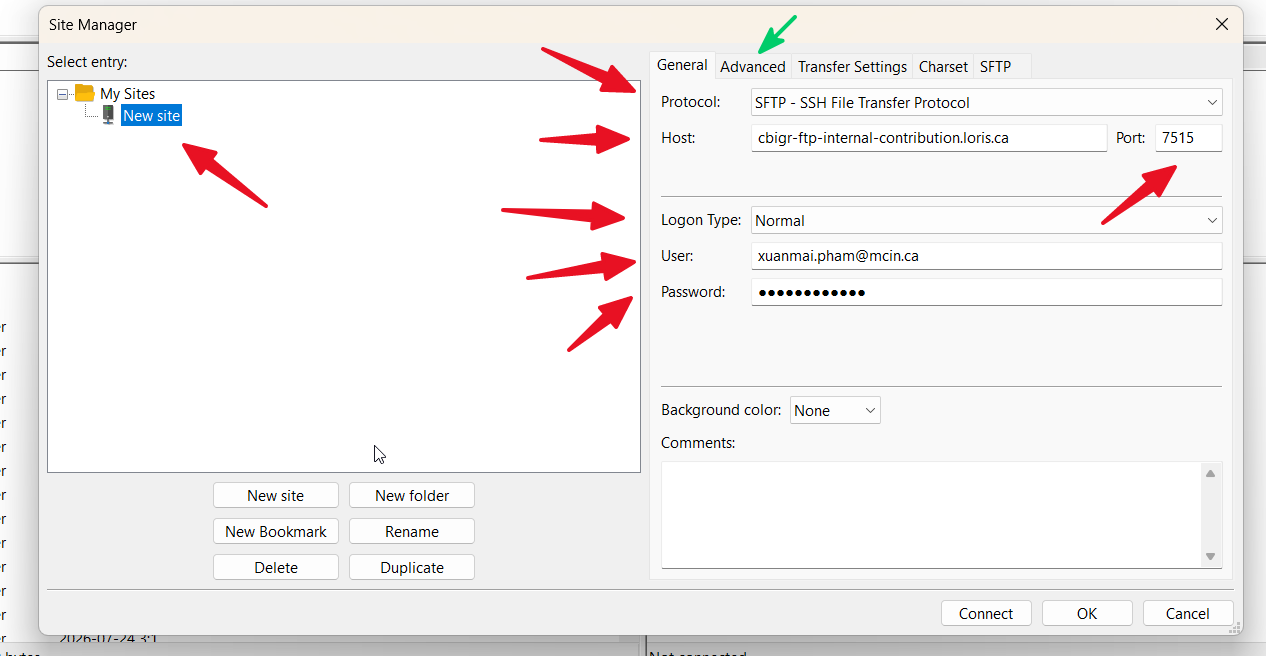
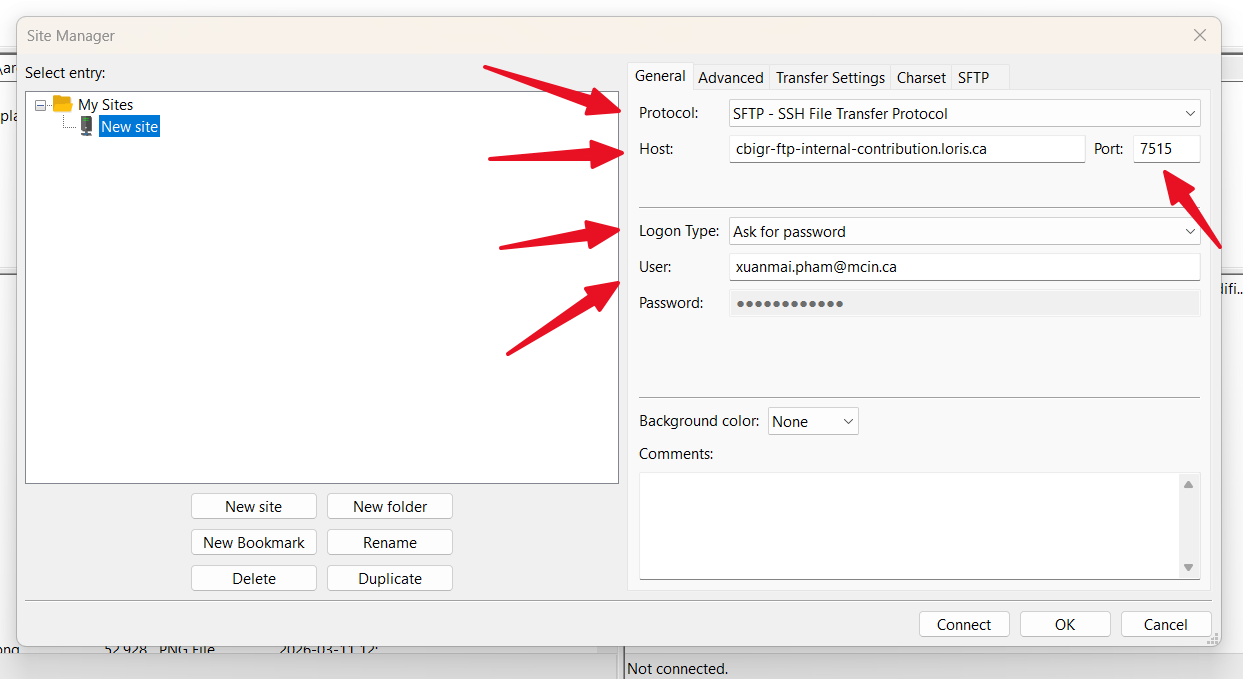
Update SFTP

diff --git a/docs/transferring-data.md b/docs/transferring-data.md
@@ -44,7 +44,9 @@ Small Datasets include individual files or modest data volumes `size TBD` that c
 
 ### BIDS Uploader
 
-`TBD`
+`TBD`  
+ℹ **Note:** Your dataset should be [BIDS-compliant](https://bids-specification.readthedocs.io/).  
+💡 For more information about the **Brain Imaging Data Structure (BIDS)** standard format, visit our [BIDS Overview](https://www.archimedesdata.ca/resources/data-standards/bids-overview/) resource.  
 
 ### Instrument Manager
 
@@ -100,8 +102,10 @@ The Electrophysiology Browser module allows you to review, filter, annotate and 
 `
 
 `To upload recordings, click on the Upload tab. Select your file for upload and enter the required information about the recording.
-`
-Your dataset should be [BIDS-compliant](https://bids-specification.readthedocs.io/).
+`  
+
+ℹ **Note:** Your dataset should be [BIDS-compliant](https://bids-specification.readthedocs.io/).  
+
 
 ## Large Datasets 🔵
 
@@ -177,21 +181,14 @@ The following steps describe how to connect to the SFTP server and upload your d
 - **Protocol:** `SFTP - SSH File Transfer Protocol`
 - **Host:** `cbigr-ftp-internal-contribution.loris.ca`
 - **Port:** `7515`
-- **Logon Type:** `Normal`
+- **Logon Type:** `Ask for password`
 - **User:** Your ARCHIMEDES account email address
 - **Password:** Your ARCHIMEDES account password
 
-➡ Select the **Advanced** tab and set **Bypass proxy** as the **Proxy type**.  
-
-➡ Click *Connect*.
-
-![Connectinfo](images/filezilla_detstoenter.png)
-
-![bypass](images/filezillabypass.png)
-
 ➡ When you connect to the SFTP server for the first time, FileZilla displays an **Unknown host key** message.
 
-Verify that the **Host** matches the SFTP server address, select *Always trust this host, add this key to the cache* box  and click OK.
+- Verify that the **Host** matches the SFTP server address, select *Always trust this host, add this key to the cache* box  and click OK.
+- Ensure that the *Fingerprint* also matches.
 
 ![Unknown host key](images/filezilla_unknownhostkey.png)
 
@@ -204,7 +201,7 @@ Once you are connected:
 
 ![connected](images/filezillaconnected.png)
 
-➡ The **FDGP** folder will appear.  
+➡ Each project has its own upload folder. In this example, the data is uploaded to the **FDGP** folder.   
 ➡ Upload your data to this folder by dragging and dropping the selected files or folders from the **Local site** to the **Remote site**, or by right-clicking the selected item and choosing **Upload**. 
 
 ![FDGP](images/uploadtoFDGP.png)
